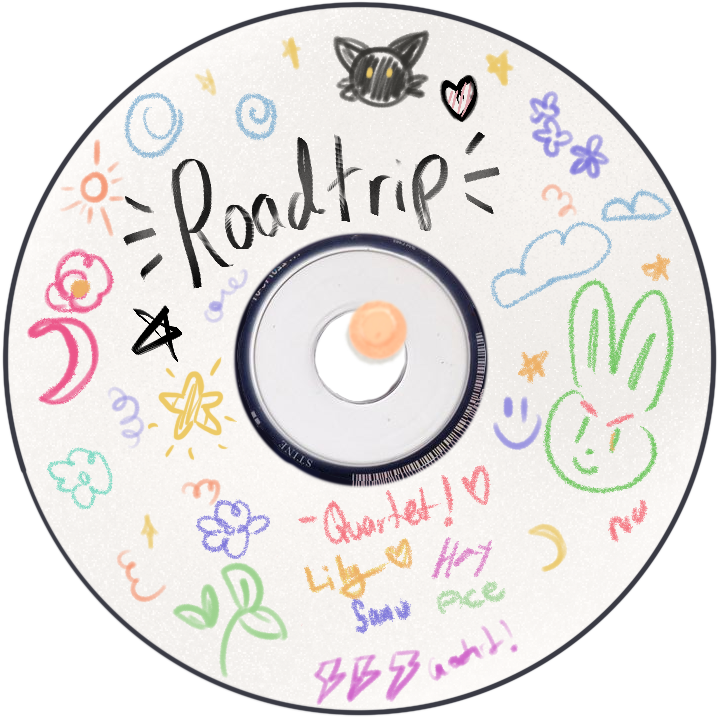
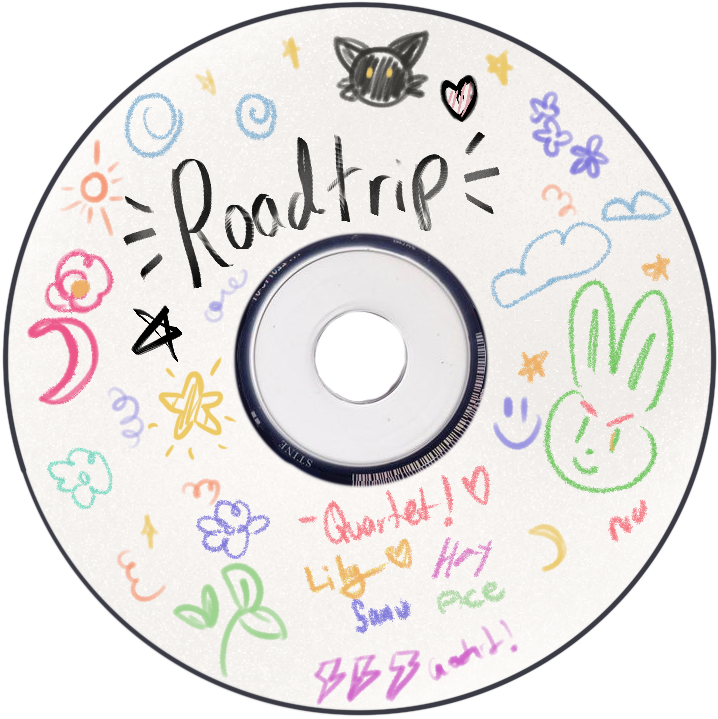
fixed cd rotation

Changed region(s): [[0.4596, 0.3978, 0.5822, 0.5202]]

diff --git a/index.html b/index.html
@@ -51,7 +51,11 @@
             <!-- moveable objects -->
             <div class="item1 bgitems draggable"><img src="images/list1.png" style="width: 100%;"></div>
             <div class="number bgitems draggable"><img src="images/number.png" style="width: 100%;"></div>
-            <div class="cd bgitems" onmouseenter="playAudio()" onmouseleave="pauseAudio()"><img src="images/cd.png" style="width: 100%;"></div>
+            <div class="cd bgitems" onmouseenter="playAudio()" onmouseleave="pauseAudio()">
+                <img src="images/pin.png" style="position: absolute; width: 100%;">
+                <img class="playmusic" src="images/cd.png" style="position: absolute; width: 100%;">
+            </div>
+
             <div class="flowers bgitems draggable"><img src="images/flowers.png" style="width: 100%;"></div>
             <div class="catcut bgitems draggable"><img src="images/catcut.png" style="width: 100%;"></div>
             <div class="catcut2 bgitems draggable"><img src="images/catcut2.png" style="width: 100%;"></div>

diff --git a/index-stylesheet.css b/index-stylesheet.css
@@ -83,6 +83,7 @@
     top: 40%;
     right: 20%;
     width: 17%;
+    height: 20%;
     z-index: 6;
   }
 
@@ -143,7 +144,7 @@
   
   /* key chain aniamtion from https://codepen.io/drewr/pen/porBwW by Andrew Ross */
 .keychain {
-    bottom: 19%;
+    bottom: 12%;
     right: 20%;
     width: 15%;
     z-index: 8;
@@ -168,11 +169,13 @@
     top: 55%;
     left: 3%;
     width: 20%;
-    transition: 0.9ms;
     z-index: 9999;
-
 }
-.cd:hover{
+
+.playmusic{
+  transition: transform 0.3s ease; 
+}
+.playmusic:hover{
     animation: spin 3.5s linear infinite;
 }
 
